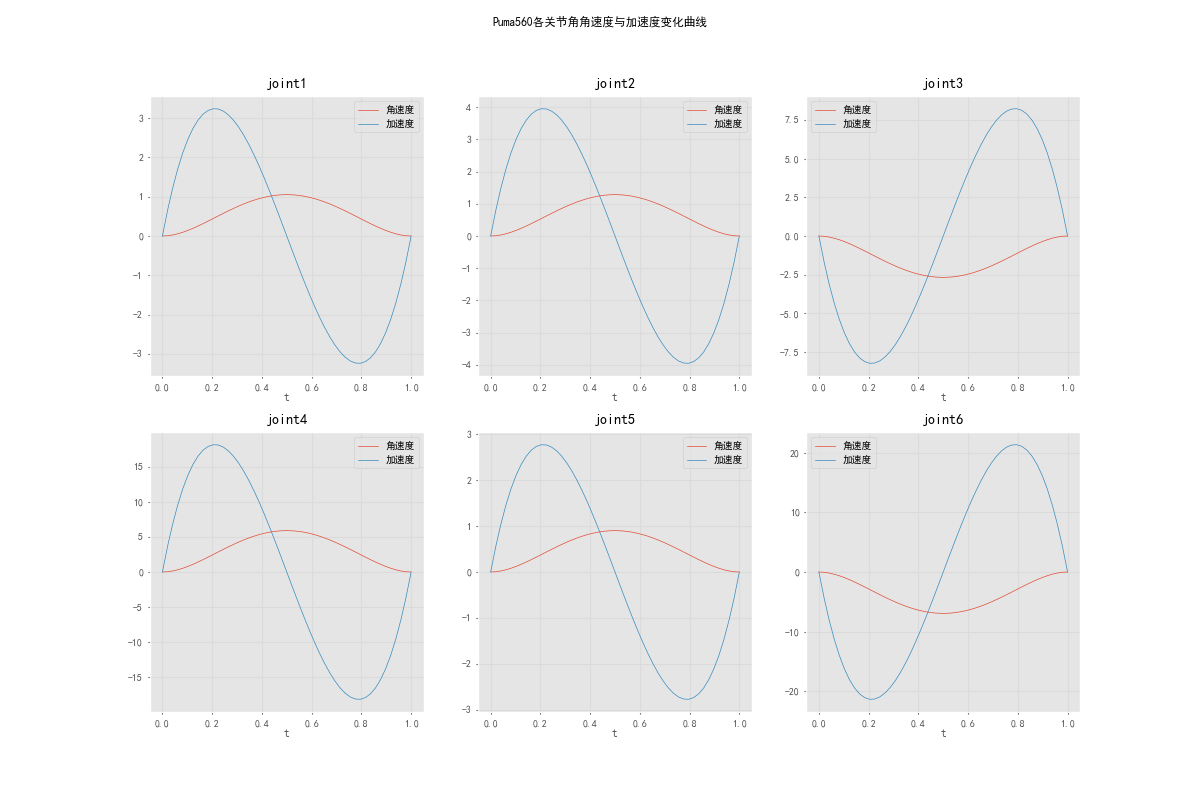
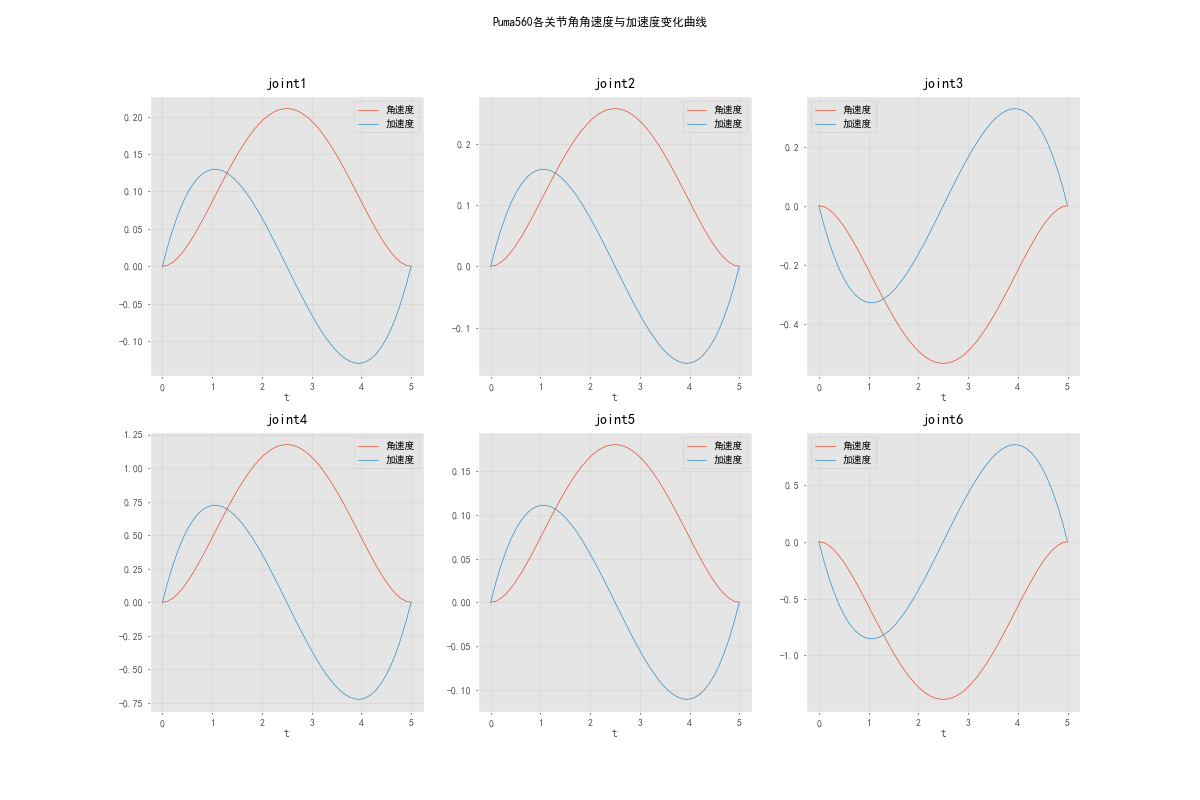
third commit

diff --git a/main.py b/main.py
@@ -13,14 +13,14 @@ class Traj:
 class Puma560:
     def __init__(self):
         self.dh_params = [
-                {'theta': 0, 'd': 0.6718, 'a': 0, 'alpha': pi/2},
-                {'theta': 0, 'd': 0, 'a': 0.4318, 'alpha': 0},
-                {'theta': 0, 'd': 0.15005, 'a': 0.0203, 'alpha': -pi/2},
-                {'theta': 0, 'd': 0.4318, 'a': 0, 'alpha': pi/2},
-                {'theta': 0, 'd': 0, 'a': 0, 'alpha': -pi/2},
-                {'theta': 0, 'd': 0, 'a': 0, 'alpha': 0},
+                {'theta': 0, 'd': 0.6718, 'a': 0, 'alpha': pi/2, 'q-': -160, 'q+': 160},
+                {'theta': 0, 'd': 0, 'a': 0.4318, 'alpha': 0, 'q-': -110, 'q+': 110},
+                {'theta': 0, 'd': 0.15005, 'a': 0.0203, 'alpha': -pi/2, 'q-': -135, 'q+': 135},
+                {'theta': 0, 'd': 0.4318, 'a': 0, 'alpha': pi/2, 'q-': -266, 'q+': 266},
+                {'theta': 0, 'd': 0, 'a': 0, 'alpha': -pi/2, 'q-': -100, 'q+': 100},
+                {'theta': 0, 'd': 0, 'a': 0, 'alpha': 0, 'q-': -266, 'q+': 266},
             ]
-        self.limits = [(-160, 160), (-110, 110), (-135, 135), (-266, 266), (-100, 100), (-266, 266)] # 关节角限制
+        
     
     def dh_matrix(self, theta: float, d: float, a: float, alpha: float) -> np.ndarray:
         """Puma560六轴机械臂的DH变换矩阵
@@ -58,29 +58,24 @@ class Puma560:
 
     def limit(self, rad:float, LimitsIndex: int, e=1e-3):
         """判断rad是否超过关节角限制
-
         Args:
             rad (float): 关节角弧度
             LimitsIndex (int): 索引即第LimitsIndex个关节角
             e (float, optional): 误差范围. Defaults to 1e-3.
-
         Returns:
             bool: 超过限制返回False，否则返回True
         """
         deg = np.rad2deg(rad)
-        Limits = self.limits
-        if (deg - Limits[LimitsIndex][0]) < -e or (deg - Limits[LimitsIndex][1]) > e:
+        if (deg - self.dh_params[LimitsIndex]['q-']) < -e or (deg - self.dh_params[LimitsIndex]['q+']) > e:
             return False
         return True
     
     def inverse(self, T: np.ndarray) -> np.ndarray:
         """根据位姿求解关节角
-
         Args:
             T (np.ndarray): 目标位姿
         Raises:
             ValueError: 判断T是否为规定的形状
-
         Returns:
             np.ndarray: 所有符合条件的解，值为弧度
         """
@@ -264,9 +259,9 @@ if __name__ == '__main__':
     print("根据Sol2得到的正解T2: \n", np.round(puma.forward(Sol2), 2))
 
     # 计算从Sol1到Sol2的轨迹
-    trajectory = puma.traj(Sol1, Sol2, T = 1, gapPoint=50)
+    trajectory = puma.traj(Sol1, Sol2, T = 5, gapPoint=50)
     robot = rtb.models.DH.Puma560()
-    robot.plot(trajectory.q, backend='pyplot', movie="trajectory.gif")
+    robot.plot(trajectory.q, backend='pyplot', movie="trajectory5.gif")
     
     # 画出速度和加速度曲线
     fig, axes = plt.subplots(nrows=2, ncols=3, figsize=(12, 8))
